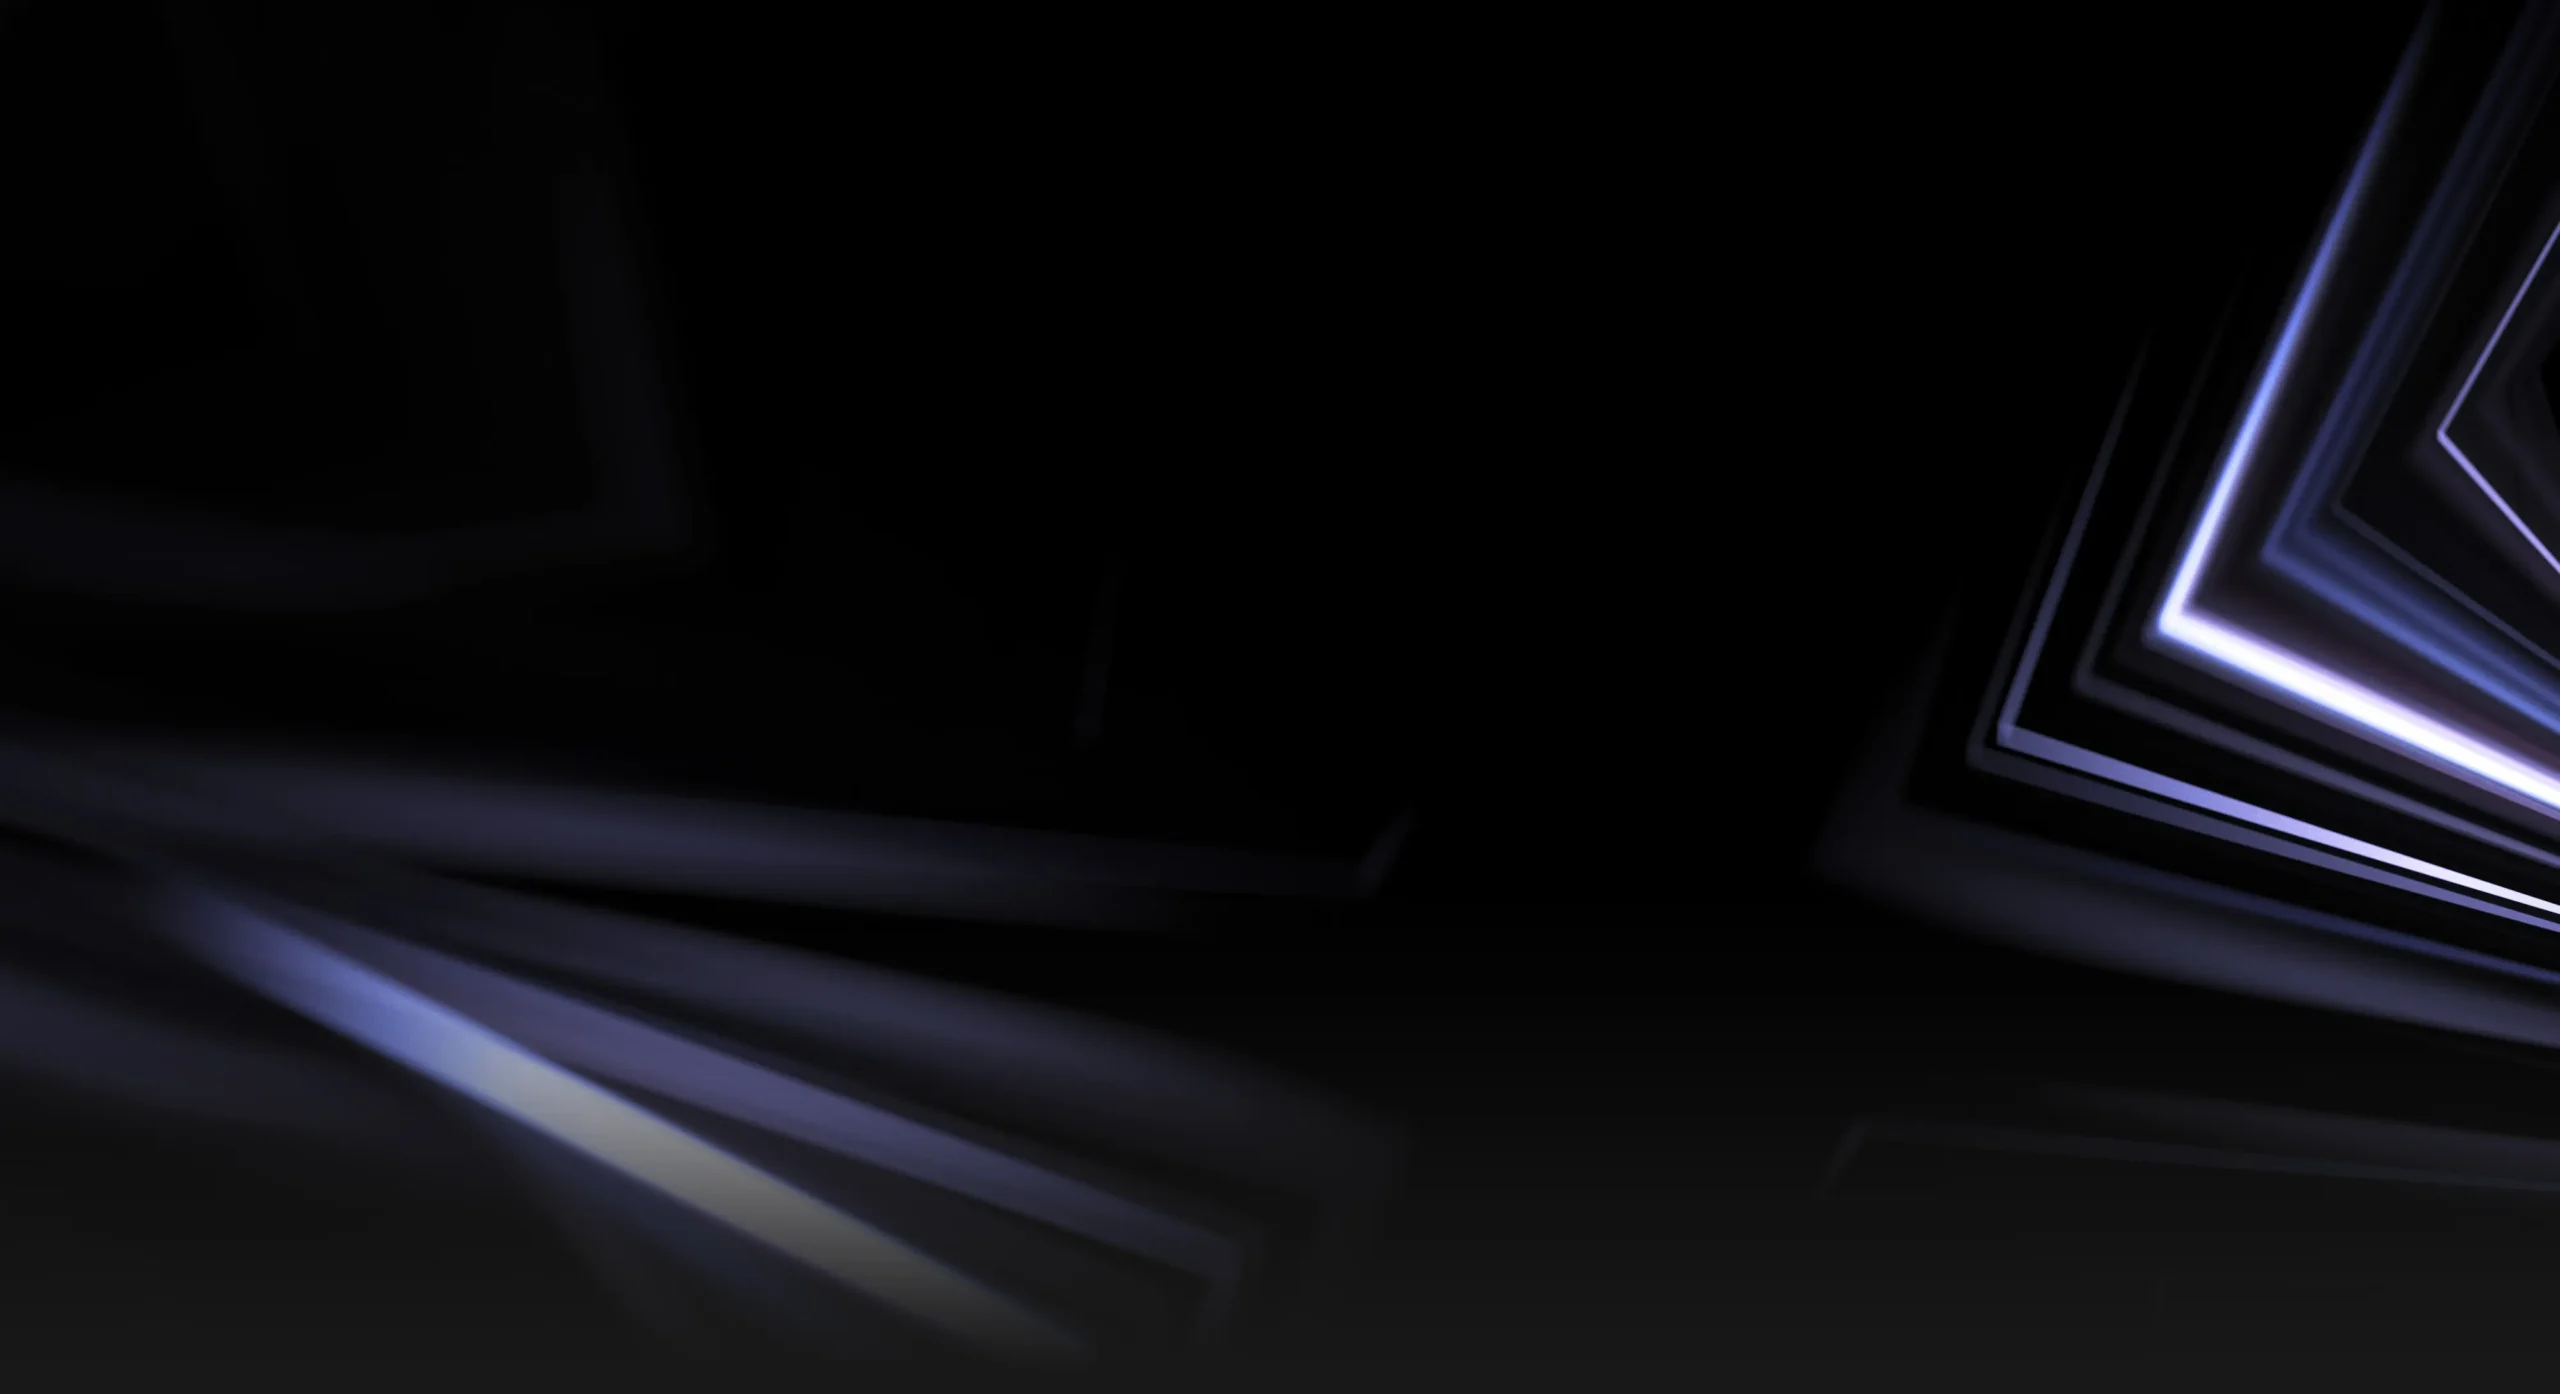
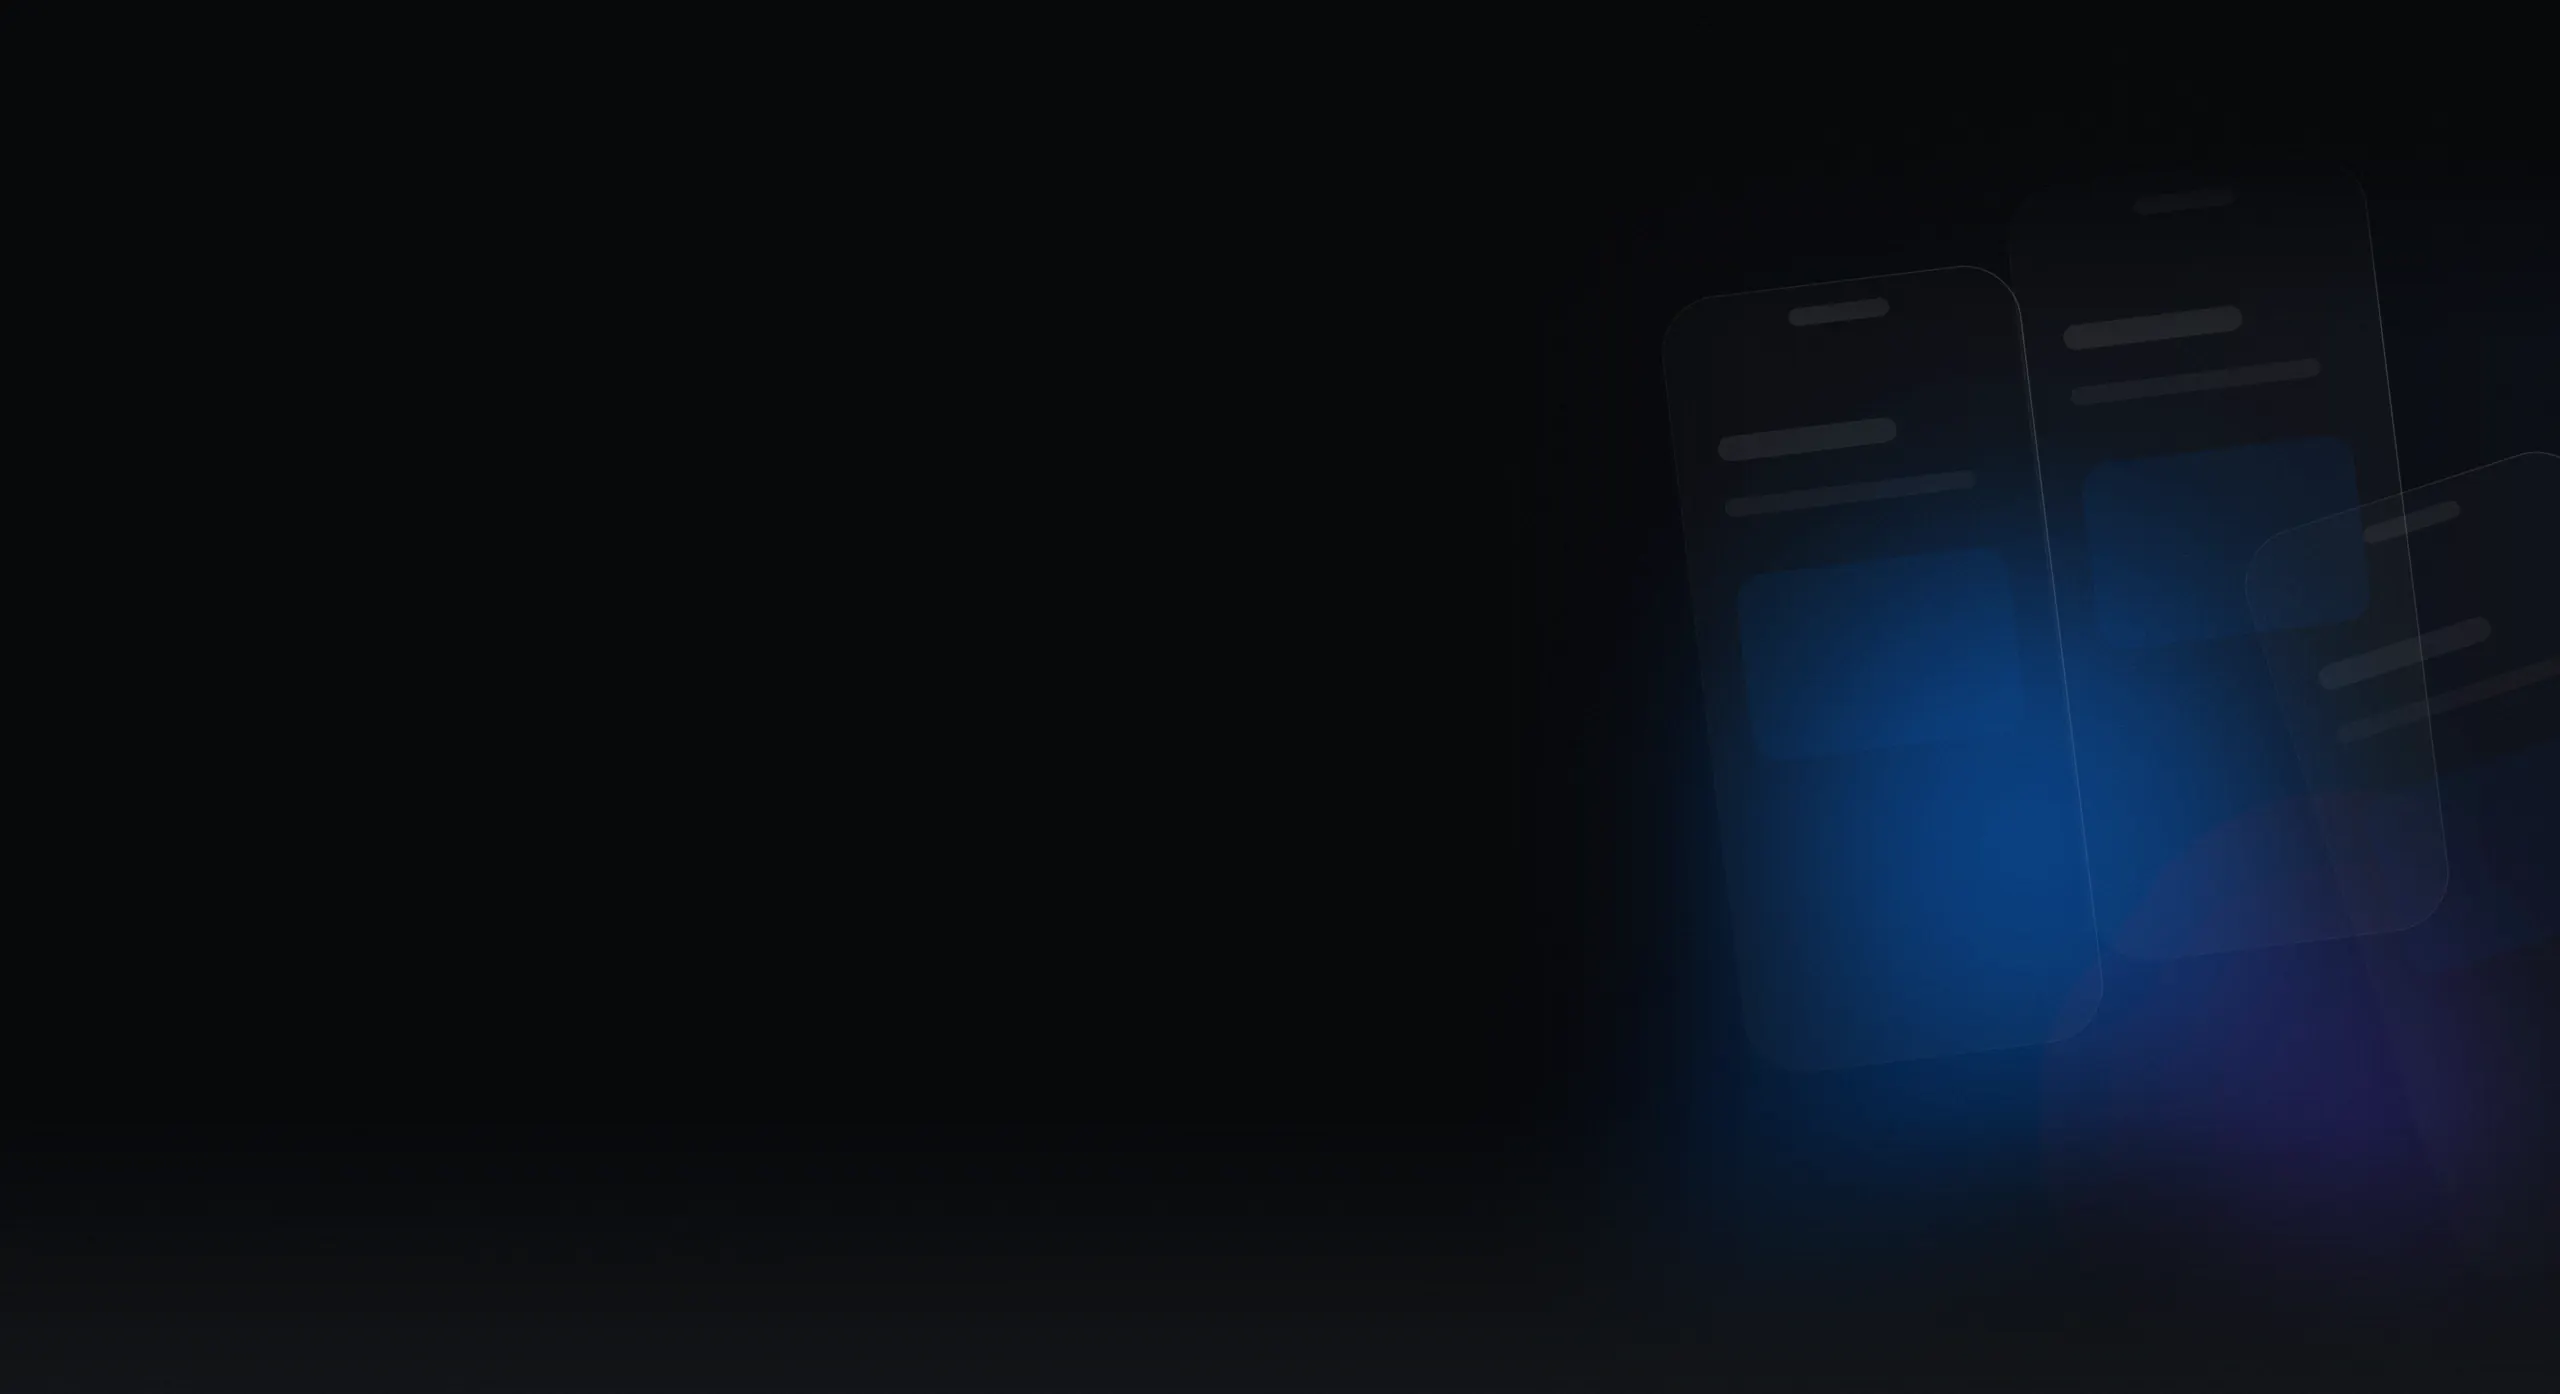
feat(images): Deep Glass backgrounds and clay hero illustrations
Replace the Eras-era stock and pastel images with Sova's own, generated
by design/images (same path, name and aspect ratio, intrinsic size >= the
original).

- H1 service hero backgrounds and H2 clay service illustrations
  (website, app mobile, SEO, branding).
- H3 About hero, H4 projects background + illustration, H5 simple hero
  (contact_hero_bg.jpg), H6 detail header.
- S1 projects scroll, S2 packages, S3 contact banners (desktop + 2
  mobile), S4 SEO advantages column (4 srcset sizes), F1 footer.
- H6 changes format: ec9c55...png -> .webp (871.7 KB -> WebP);
  listings.ts and assets.ts point at the .webp and the PNG is removed.
- assets.ts also carries the icon refs of the next commit: 9 .png ->
  .svg sources and two branding benefit icons of their own
  (asset-6d767e6b57, asset-9f7d38ffd5).

diff --git a/apps/frontend/src/data/assets.ts b/apps/frontend/src/data/assets.ts
@@ -4077,7 +4077,7 @@ export const assets: AssetRef[] = [
   },
   {
     id: 'asset-6ea8fcf731',
-    src: '/wp-content/uploads/2024/03/ec9c55cfcb4d0c64ecafd52d957c13e9.png',
+    src: '/wp-content/uploads/2024/03/ec9c55cfcb4d0c64ecafd52d957c13e9.webp',
     alt: '',
     kind: 'image',
     status: 'local',
@@ -5536,6 +5536,32 @@ export const assets: AssetRef[] = [
     height: 1,
   },
   {
+    id: 'asset-6d767e6b57',
+    src: '/wp-content/uploads/2024/03/branding-strategy.svg',
+    alt: '',
+    kind: 'image',
+    status: 'local',
+    sources: [
+      { file: 'ui-ux-branding-design/index.html', line: 1159 },
+      { file: 'en/ui-ux-branding-design-2/index.html', line: 1159 },
+    ],
+    width: 1,
+    height: 1,
+  },
+  {
+    id: 'asset-9f7d38ffd5',
+    src: '/wp-content/uploads/2024/03/branding-value.svg',
+    alt: '',
+    kind: 'image',
+    status: 'local',
+    sources: [
+      { file: 'ui-ux-branding-design/index.html', line: 1225 },
+      { file: 'en/ui-ux-branding-design-2/index.html', line: 1225 },
+    ],
+    width: 1,
+    height: 1,
+  },
+  {
     id: 'asset-890c9a06c6',
     src: '/wp-content/uploads/2025/04/Screenshot-2025-04-23-at-21.49.40.webp',
     alt: '',
@@ -6260,7 +6286,7 @@ export const assets: AssetRef[] = [
   },
   {
     id: 'asset-e835ec4125',
-    src: '/wp-content/uploads/2025/04/menu-bar-1.png',
+    src: '/wp-content/uploads/2025/04/menu-bar-1.svg',
     alt: 'Menu',
     kind: 'image',
     status: 'local',
@@ -6271,7 +6297,7 @@ export const assets: AssetRef[] = [
   },
   {
     id: 'asset-2defc00acc',
-    src: '/wp-content/uploads/2025/04/contact-1.png',
+    src: '/wp-content/uploads/2025/04/contact-1.svg',
     alt: 'Liên hệ',
     kind: 'image',
     status: 'local',
@@ -6282,7 +6308,7 @@ export const assets: AssetRef[] = [
   },
   {
     id: 'asset-93ae800f4d',
-    src: '/wp-content/uploads/2025/04/call-111.png',
+    src: '/wp-content/uploads/2025/04/call-111.svg',
     alt: 'Gọi ngay',
     kind: 'image',
     status: 'local',
@@ -6293,7 +6319,7 @@ export const assets: AssetRef[] = [
   },
   {
     id: 'asset-d6e9626f10',
-    src: '/wp-content/uploads/2025/04/messenger-111.png',
+    src: '/wp-content/uploads/2025/04/messenger-111.svg',
     alt: 'Messenger',
     kind: 'image',
     status: 'local',
@@ -6304,7 +6330,7 @@ export const assets: AssetRef[] = [
   },
   {
     id: 'asset-b76e523c6b',
-    src: '/wp-content/uploads/2025/04/zalo-111.png',
+    src: '/wp-content/uploads/2025/04/zalo-111.svg',
     alt: 'Zalo',
     kind: 'image',
     status: 'local',
@@ -6334,7 +6360,7 @@ export const assets: AssetRef[] = [
   },
   {
     id: 'asset-067e286c8e',
-    src: '/wp-content/uploads/2024/02/Icon-Glass-1.png',
+    src: '/wp-content/uploads/2024/02/Icon-Glass-1.svg',
     alt: '',
     kind: 'image',
     status: 'local',
@@ -6360,7 +6386,7 @@ export const assets: AssetRef[] = [
   },
   {
     id: 'asset-b76c181761',
-    src: '/wp-content/uploads/2024/02/Icon-Glass-3-e1708484005472.png',
+    src: '/wp-content/uploads/2024/02/Icon-Glass-3-e1708484005472.svg',
     alt: '',
     kind: 'image',
     status: 'local',
@@ -6386,7 +6412,7 @@ export const assets: AssetRef[] = [
   },
   {
     id: 'asset-4df71020f1',
-    src: '/wp-content/uploads/2024/02/Group-48095355.png',
+    src: '/wp-content/uploads/2024/02/Group-48095355.svg',
     alt: '',
     kind: 'image',
     status: 'local',
@@ -6399,7 +6425,7 @@ export const assets: AssetRef[] = [
   },
   {
     id: 'asset-74979526ba',
-    src: '/wp-content/uploads/2024/02/Group-48095375.png',
+    src: '/wp-content/uploads/2024/02/Group-48095375.svg',
     alt: '',
     kind: 'image',
     status: 'local',

diff --git a/apps/frontend/src/data/listings.ts b/apps/frontend/src/data/listings.ts
@@ -276,7 +276,7 @@ export const blogDetailCopy = {
   breadcrumbHome: 'Trang chủ',
   breadcrumbBlog: 'Góc nhìn',
   breadcrumbCurrent: 'Chi tiết',
-  headingBackgroundImage: '/wp-content/uploads/2024/03/ec9c55cfcb4d0c64ecafd52d957c13e9.png',
+  headingBackgroundImage: '/wp-content/uploads/2024/03/ec9c55cfcb4d0c64ecafd52d957c13e9.webp',
   relatedTitle: 'Bài viết liên quan:',
 };
 
